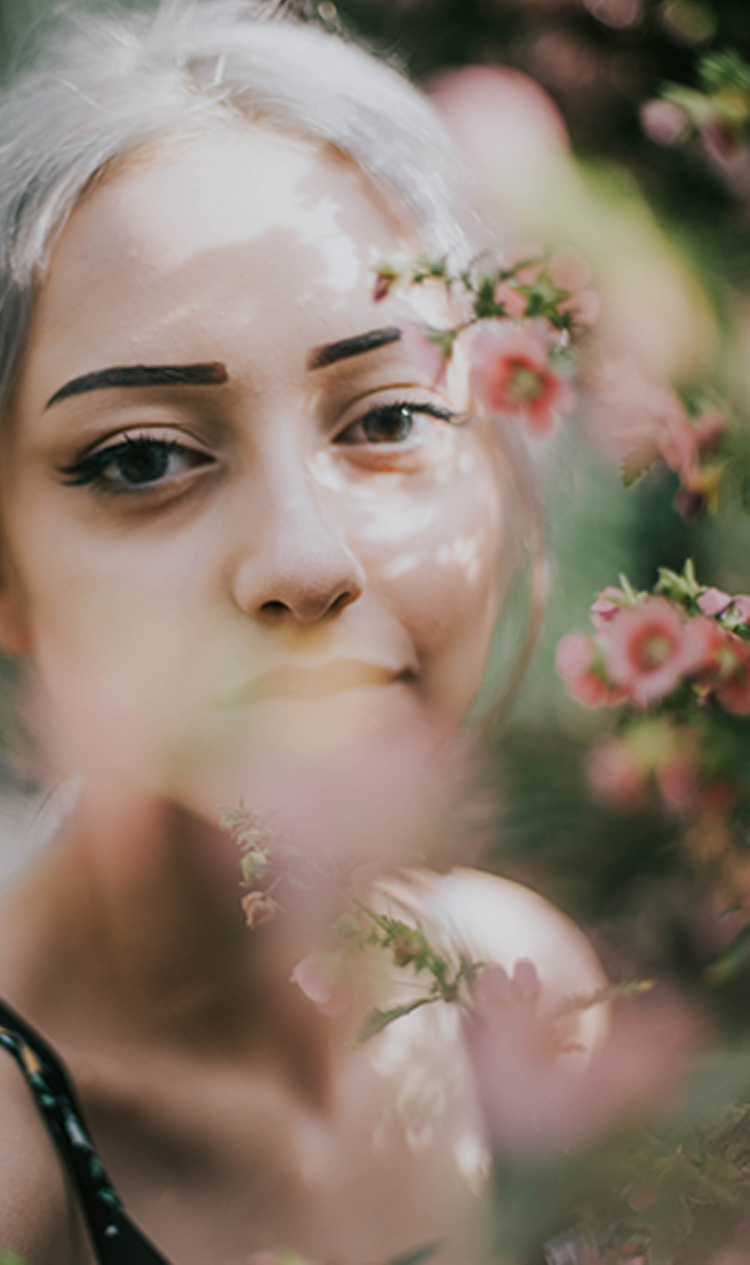
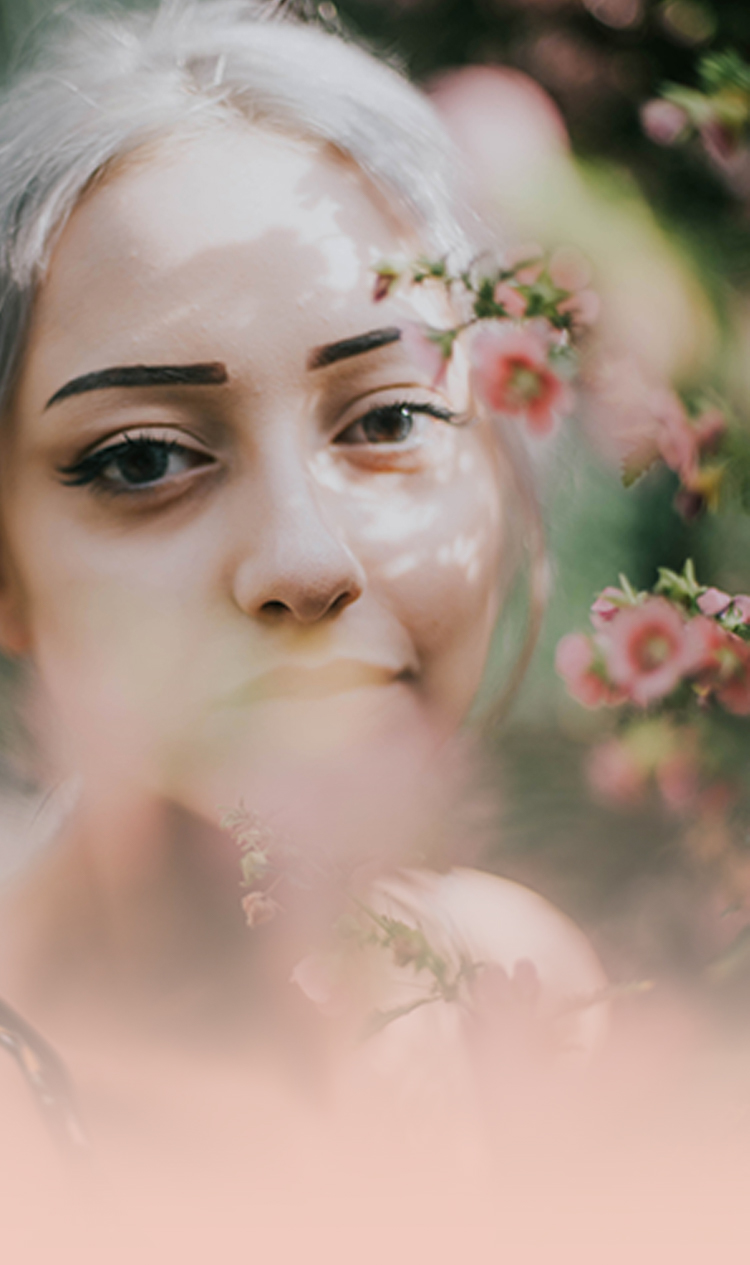
updated mobile page template

diff --git a/styles/index.css b/styles/index.css
@@ -6,7 +6,11 @@ body {
 
 
  	
- 	background-color: #fae6de;
+ 	background-color: #efcabe;
+ 	
+ 	/*
+ 	background-image: url('../imgs/bg-texture.jpg');
+	*/
 
   	color: #000;
   	font-family: 'baskerville', serif;
@@ -15,7 +19,7 @@ body {
 
 	height: 100%;
 	margin: 0;
-	background-repeat: no-repeat;
+	background-repeat: repeat;
 	background-attachment: fixed;
 
 	overflow-x:hidden;
@@ -29,8 +33,9 @@ body {
 
     letter-spacing: .02em;
     position: absolute;
-    top: 9.5vh;
-    left: 12vw;
+    top: 3.3em;
+    left: 3.2em;
+    font-size: 0.6em;
 
 }
 
@@ -68,7 +73,7 @@ p{
 
 .header-bg{
 
-	background-color: #ecc7bb;
+	background-color: #fae6de;
 	height: 45vh;
 	margin-top: -15em;
 	margin-right: 0;
@@ -79,10 +84,10 @@ p{
 
 .hero-img{
 
-	background-color: green;
-	margin-top: -30%;
-	height: 78vh;
-	margin-bottom: 0;
+	background-color: #a16d5b;
+    margin-top: -13vh;
+    height: 78vh;
+    margin-bottom: 0;
 
 }
 
@@ -119,14 +124,13 @@ p{
 
 }
 
-.weddings-hero{
+.family-hero{
 
-	background-image: url("../imgs/weddings-hero.jpg");
-
-	background-size: 50vh;
-	background-repeat: no-repeat;
-	background-position: 80% 10%;
-	overflow: hidden;
+	background-image: url(../imgs/family-hero.jpg);
+    background-size: 54vh;
+    background-repeat: no-repeat;
+    background-position: 45% 70%;
+    overflow: hidden;
 
 }
 
@@ -208,3 +212,49 @@ a:hover {
 
 
 
+.portrait-header{
+
+	background-image: url(../imgs/portrait-hero.jpg);
+	background-color: #efcabe;
+    background-size: 60vh;
+    background-repeat: no-repeat;
+    background-position: 50% 91%;
+    overflow: hidden;
+    margin-top: -33vh;
+    height: 78vh;
+
+}
+
+.portrait-header p{
+
+	margin-top: 36vh;
+    margin-left: 0vw;
+    color: white;
+    text-align: center;
+
+
+}
+
+
+.main-cap{
+
+	border: solid 1px blue;
+	margin-left: -2em;
+	
+}
+
+.sub-cap{
+
+	border: solid 1px red;
+	margin-left: 2em;
+	font-family: 'sabon', serif;
+	font-style: italic;
+
+}
+
+.image-tile{
+
+	width: 100vw;
+	border: solid 1px red;
+
+}

diff --git a/index.html b/index.html
@@ -57,21 +57,22 @@
 
                 <div class="row mx-1">
 
-                    <div class="col mx-1 hero-img portrait-hero">
+
+                    <div class="col mx-1 hero-img portrait-hero" onclick="window.location.href='./portrait.html';">
 
                         <p>Portrait</p>
 
                     </div>
 
-                    <div class="col mx-1 hero-img couples-hero">
+                    <div class="col mx-1 hero-img couples-hero" onclick="alert('couples');">
 
                         <p>Couples</p>
 
                     </div>
 
-                    <div class="col mx-1 hero-img weddings-hero">
+                    <div class="col mx-1 hero-img family-hero" onclick="alert('family');">
 
-                        <p>Weddings</p>
+                        <p>Family</p>
 
                     </div>
 

diff --git a/styles/fonts.css b/styles/fonts.css
@@ -4,3 +4,13 @@
 	src: url("fonts/baskerville.ttf") format("ttf");
 
 }
+
+
+@font-face {
+
+	font-family: "sabon";
+	src: url("fonts/SabonLTStd-Italic.ttf") format("ttf");
+
+}
+
+
